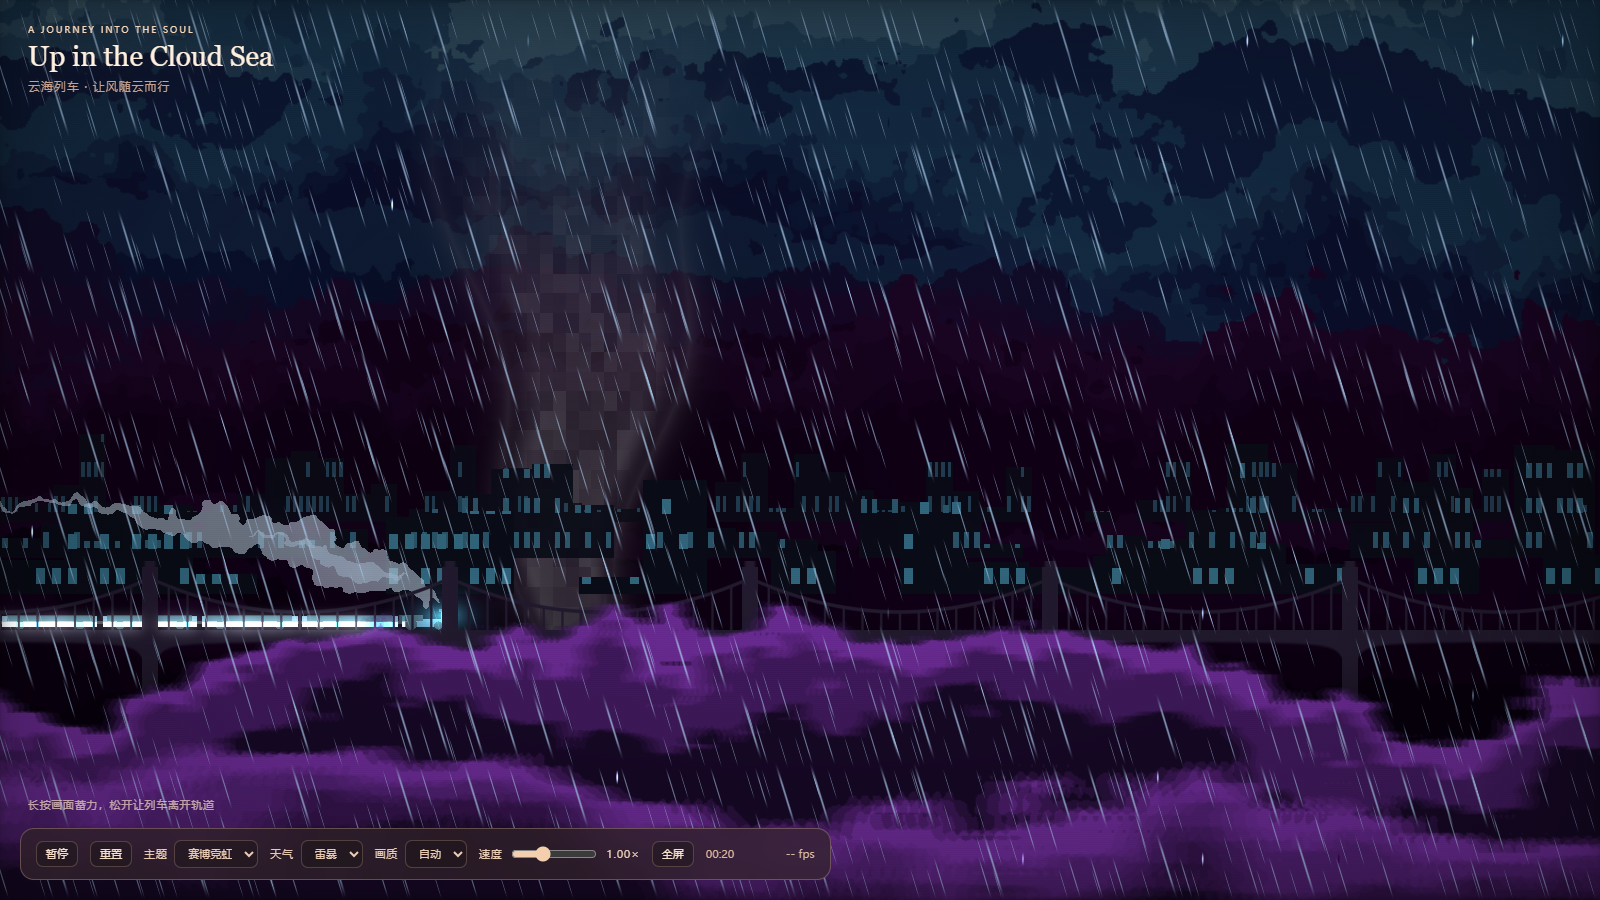
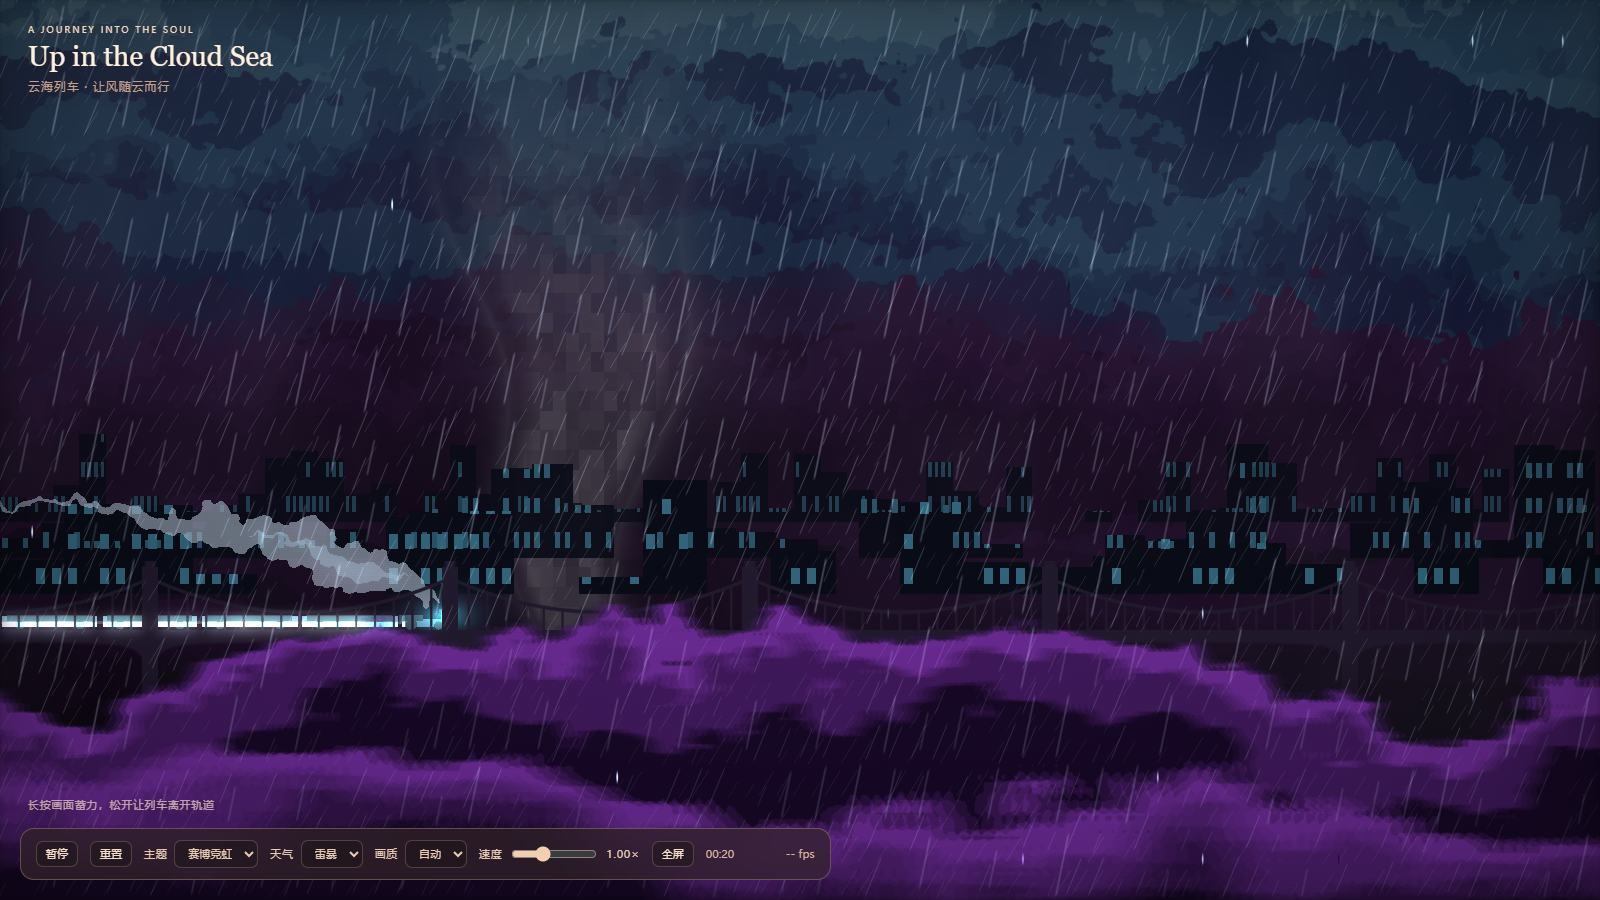
M15: 雨雾层 + 交接文档同步到 M15

diff --git a/src/scene/cloudsea.js b/src/scene/cloudsea.js
@@ -41,7 +41,7 @@ const SKY_UNIFORMS = [
   "uAuroraEnabled", "uAuroraStrength", "uAuroraColor",
   "uIceEnabled", "uIceStrength", "uIceScale", "uIceColor",
   "uWarp", "uRidge", "uCarvePos", "uCarveRadius", "uCarveDepth",
-  "uWeatherActive", "uBrightness", "uContrast", "uSaturation", "uCloudTime",
+  "uWeatherActive", "uBrightness", "uContrast", "uSaturation", "uCloudTime", "uMist",
   "uTornado", "uTornadoPos",
 ];
 
@@ -140,7 +140,7 @@ export class CloudSeaRenderer {
     this.weather = {
       active: 0, brightness: 1, contrast: 1, saturation: 1,
       particleMul: 1, particleDir: 1, particleSpeed: 1, particleDriftX: 0, particleShape: 0, particleSize: 1, particleMix: 0,
-      precipType: 0, precipAmount: 0, tornado: 0,
+      precipType: 0, precipAmount: 0, mist: 0, tornado: 0,
       particleColor: [1, 1, 1],
     };
     this.cloudTime = 0;
@@ -273,6 +273,7 @@ export class CloudSeaRenderer {
     this.weather.particleColor = weather.particleColor || [1, 1, 1];
     this.weather.precipType = weather.precipType ?? 0;
     this.weather.precipAmount = weather.precipAmount ?? 0;
+    this.weather.mist = weather.mist ?? 0;
     this.weather.tornado = weather.tornado ?? 0;
   }
 
@@ -394,6 +395,10 @@ export class CloudSeaRenderer {
 
     if (pass.uniforms.uCloudTime) {
       gl.uniform1f(pass.uniforms.uCloudTime, this.cloudTime);
+    }
+
+    if (pass.uniforms.uMist) {
+      gl.uniform1f(pass.uniforms.uMist, this.weather.mist);
     }
 
     if (pass.uniforms.uWeatherActive) {

diff --git a/src/systems/weather.js b/src/systems/weather.js
@@ -29,6 +29,7 @@ export const WEATHER_PRESETS = {
     flashRate: 0,
     precipType: 0, // 0 无 / 1 雨 / 2 雪
     precipAmount: 0,
+    mist: 0.0,
     tornado: 0,
   },
   rain: {
@@ -49,6 +50,7 @@ export const WEATHER_PRESETS = {
     flashRate: 0,
     precipType: 1,
     precipAmount: 1.25,
+    mist: 0.22,
     tornado: 0,
   },
   snow: {
@@ -69,6 +71,7 @@ export const WEATHER_PRESETS = {
     flashRate: 0,
     precipType: 2,
     precipAmount: 1.0,
+    mist: 0.35,
     tornado: 0,
   },
   storm: {
@@ -89,6 +92,7 @@ export const WEATHER_PRESETS = {
     flashRate: 3.0,
     precipType: 1,
     precipAmount: 1.35,
+    mist: 0.42,
     tornado: 1.0,
   },
 };
@@ -108,6 +112,7 @@ const NUMERIC = [
   "flashRate",
   "precipType",
   "precipAmount",
+  "mist",
   "tornado",
 ];
 const smoothstep = (t) => t * t * (3 - 2 * t);

diff --git a/src/main.js b/src/main.js
@@ -296,6 +296,7 @@ function frame(now) {
     particleColor: weatherNow.particleColor,
     precipType: weatherNow.precipType,
     precipAmount: weatherNow.precipAmount,
+    mist: weatherNow.mist,
     tornado: weatherNow.tornado,
   });
   renderer.setFlash(forcedFlash > 0 ? forcedFlash : weather.flashIntensity(dt));

diff --git a/docs/开发日志.md b/docs/开发日志.md
@@ -271,10 +271,54 @@ float rainVis = mix(1.0, 0.55, fg.a)            // 前景雾挡掉一部分雨
 
 ---
 
+## 2026-11-18 · M15 雨雾层
+
+### 做了什么
+
+在 `sky.frag` 里叠一层**低频薄雾**（云之后、列车之前）：
+
+```glsl
+vec2 mp = vec2(uv.x * 2.2 + t * 0.02, uv.y * 1.4 + t * 0.01);
+float m = fbm(mp, 4) * 0.6 + fbm(mp * 2.7 + 11.0, 3) * 0.4;
+float band = smoothstep(0.22, 0.78, m) * (0.55 + 0.45 * smoothstep(0.0, 0.9, uv.y));
+vec3 mistColor = mix(col, vec3(0.72, 0.78, 0.86), 0.55);
+col = mix(col, mistColor, band * uMist);
+```
+
+- 两层不同频率/速度的 fbm 缓慢横向漂移，避免"静态灰罩"；
+- 越靠上越浓（贴近云顶），下方保留近景清晰度；
+- 雾色从当前画面取（`mix(col, 冷灰, 0.55)`），和 M12 的雨色采样一致，不会突然出现一块异色。
+
+天气参数：晴 0 / 大雨 0.22 / 大雪 0.35 / 雷暴 0.42（数值，走 8 秒插值）。
+
+### 参数取舍
+
+第一版给到 0.55（雷暴），天空平均亮度从 36.5 提到 56.0（+53%）、87.8% 像素发生变化——
+雾感对了，但对比度被压平、龙卷也糊了。降到 0.42 后保留雾气又不丢结构。
+
+### 数据
+
+- 晴天（uMist=0）逐像素差 **0.000**，回归基线不受影响；
+- 1080p：雷暴 8.84 ms、大雨 8.42 ms；
+- `verify.ps1` 8/8 通过。
+
+### 雨这条线的完成度
+
+| 项 | 状态 |
+| --- | --- |
+| 分层 / 长短 / 渐变 / 斜率 / 风噪 | ✅ M12 |
+| 背景色采样 | ✅ M12 |
+| 云缝与雾区遮挡 | ✅ M13 |
+| 闪电照亮雨幕 + 暗角收缩 | ✅ M14 |
+| 雨雾层 | ✅ M15 |
+| 雨簇疏密 / 雨滴打在桥与车上的水花 | 未做 |
+
+---
+
 ## 待办（按优先级）
 
 1. **音频**：风声（随天气变化）、雷声、起飞音效——M9 唯一没兑现的项；
-   （雨丝质感：云遮蔽、闪电提亮已完成，剩雨雾与雨簇疏密）
+   （雨丝质感：M12–M15 已完成，剩雨簇疏密与水花）
 2. **龙卷挖空云层**：现在只有涡旋扭曲，没有真正的缺口；
 3. **竖屏构图**：430×860 下 `uv.x` 只有 0.5，列车占比过大，需要给云层一套纵向参数；
 4. **飓风的体感**：目前靠风速与粒子漂移，可再加画面轻微抖动与云的横向拉伸；

diff --git a/CLAUDE.md b/CLAUDE.md
@@ -107,6 +107,8 @@ tools/bench-server.py        bench 结果收集器（页面 POST 到 127.0.0.1:8
 
 ## 8. 当前待办（按优先级，验收标准要可测）
 
+> 进度：M12–M15 已完成雨丝质感（长短/渐变/背景色/遮挡/闪电/雨雾），剩下雨簇疏密与水花。
+
 1. **音频**：风声（随天气变强/变弱）、雷声（跟闪电包络，延迟 0.3–1.2 s）、起飞音效。用 WebAudio 程序化合成，不要引入版权素材。
 2. **龙卷把云吹散**：现在只有涡旋扭曲，没有真正的云层缺口。做法接近已有的列车拨云：在 `sky.frag` 里对龙卷中心附近额外下压云高，并让边缘产生向外甩的弧线。
 3. **竖屏构图**：430×860 下 `uv.x` 只有 0.5，列车占比过大；需要给云层一套纵向参数或降低车体占比。

diff --git a/docs/交接.md b/docs/交接.md
@@ -74,6 +74,9 @@ Compress-Archive -Path cloudsea-v2 -DestinationPath cloudsea-v2.zip -Force
 
 ## 5. 建议的任务顺序（写进第一句话也行）
 
+> 已完成（M12–M15）：雨丝长短/渐变、背景色采样、云缝遮挡、闪电提亮、雨雾层。
+> 下面从「还没做的」开始排。
+
 | 顺序 | 任务 | 验收 |
 | --- | --- | --- |
 | 1 | 音频：风声随天气、雷声跟闪电、起飞音效（WebAudio 合成） | 四种天气音量/音色不同；静音开关可用 |
